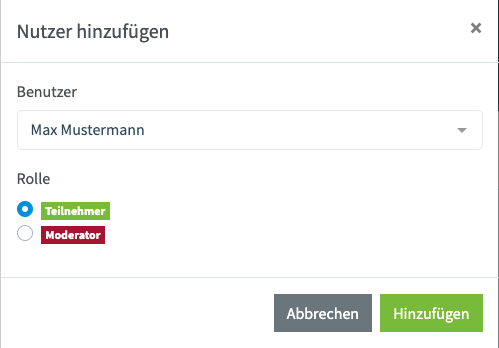
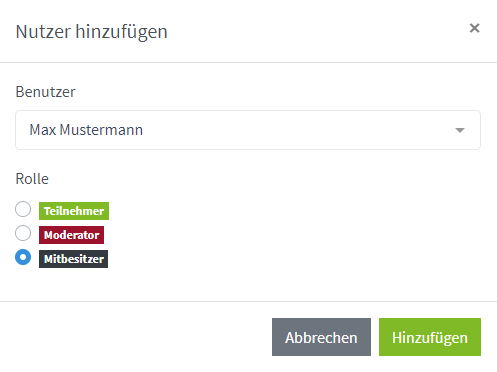
Add co-owner feature

diff --git a/room/features/membership.md b/room/features/membership.md
@@ -67,3 +67,11 @@ Möchten Sie die Mitgliedschaft eines Benutzers beenden, klicken Sie auf den But
 * Es wird kein Zugangscode benötigt
 * Kann den Raum immer starten
 * Kann Link und den Zugangscode (wenn vorhanden) sehen und damit den Raum weiteren Nutzern und Gästen (wenn erlaubt) zugänglich machen
+
+### Mitbesitzer
+
+*Wie Moderator, zusätzlich:* 
+ 
+* Kann alle Mitglieder eines Raumes sehen und bearbeiten
+* Kann alle Dateien eines Raumes sehen und bearbeiten
+* Kann alle Einstellungen eines Raumes sehen und bearbeiten
